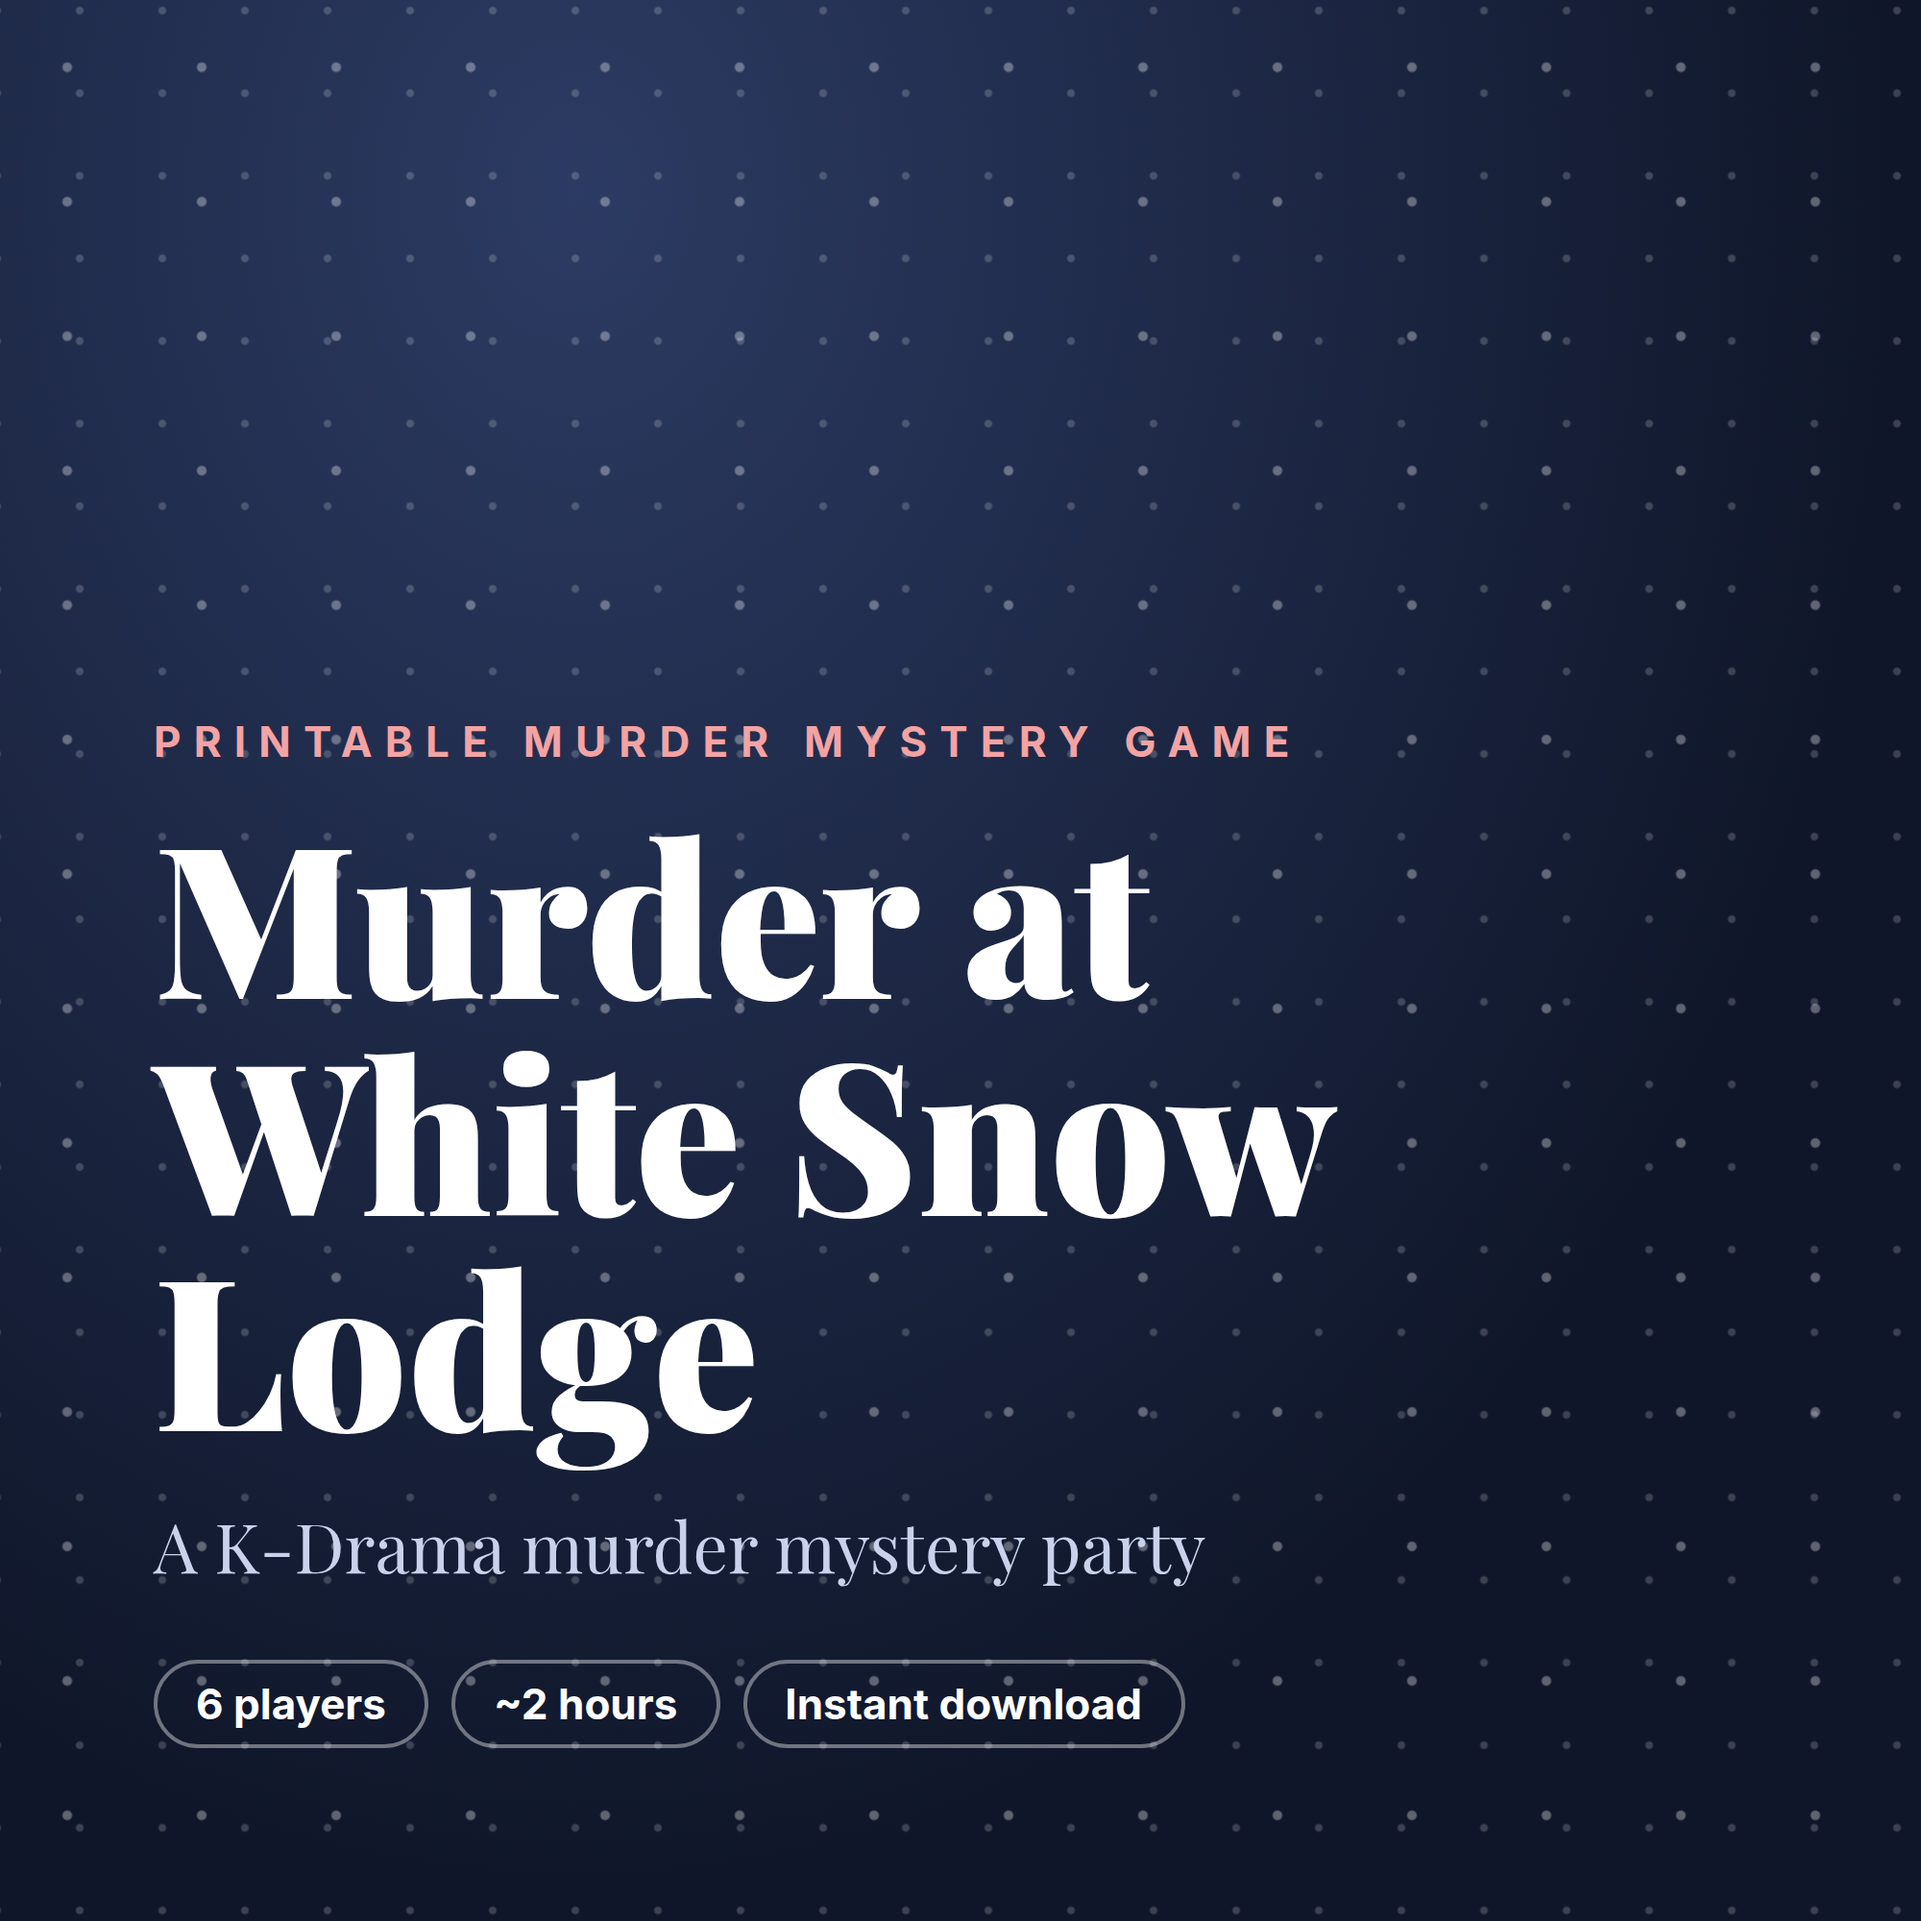
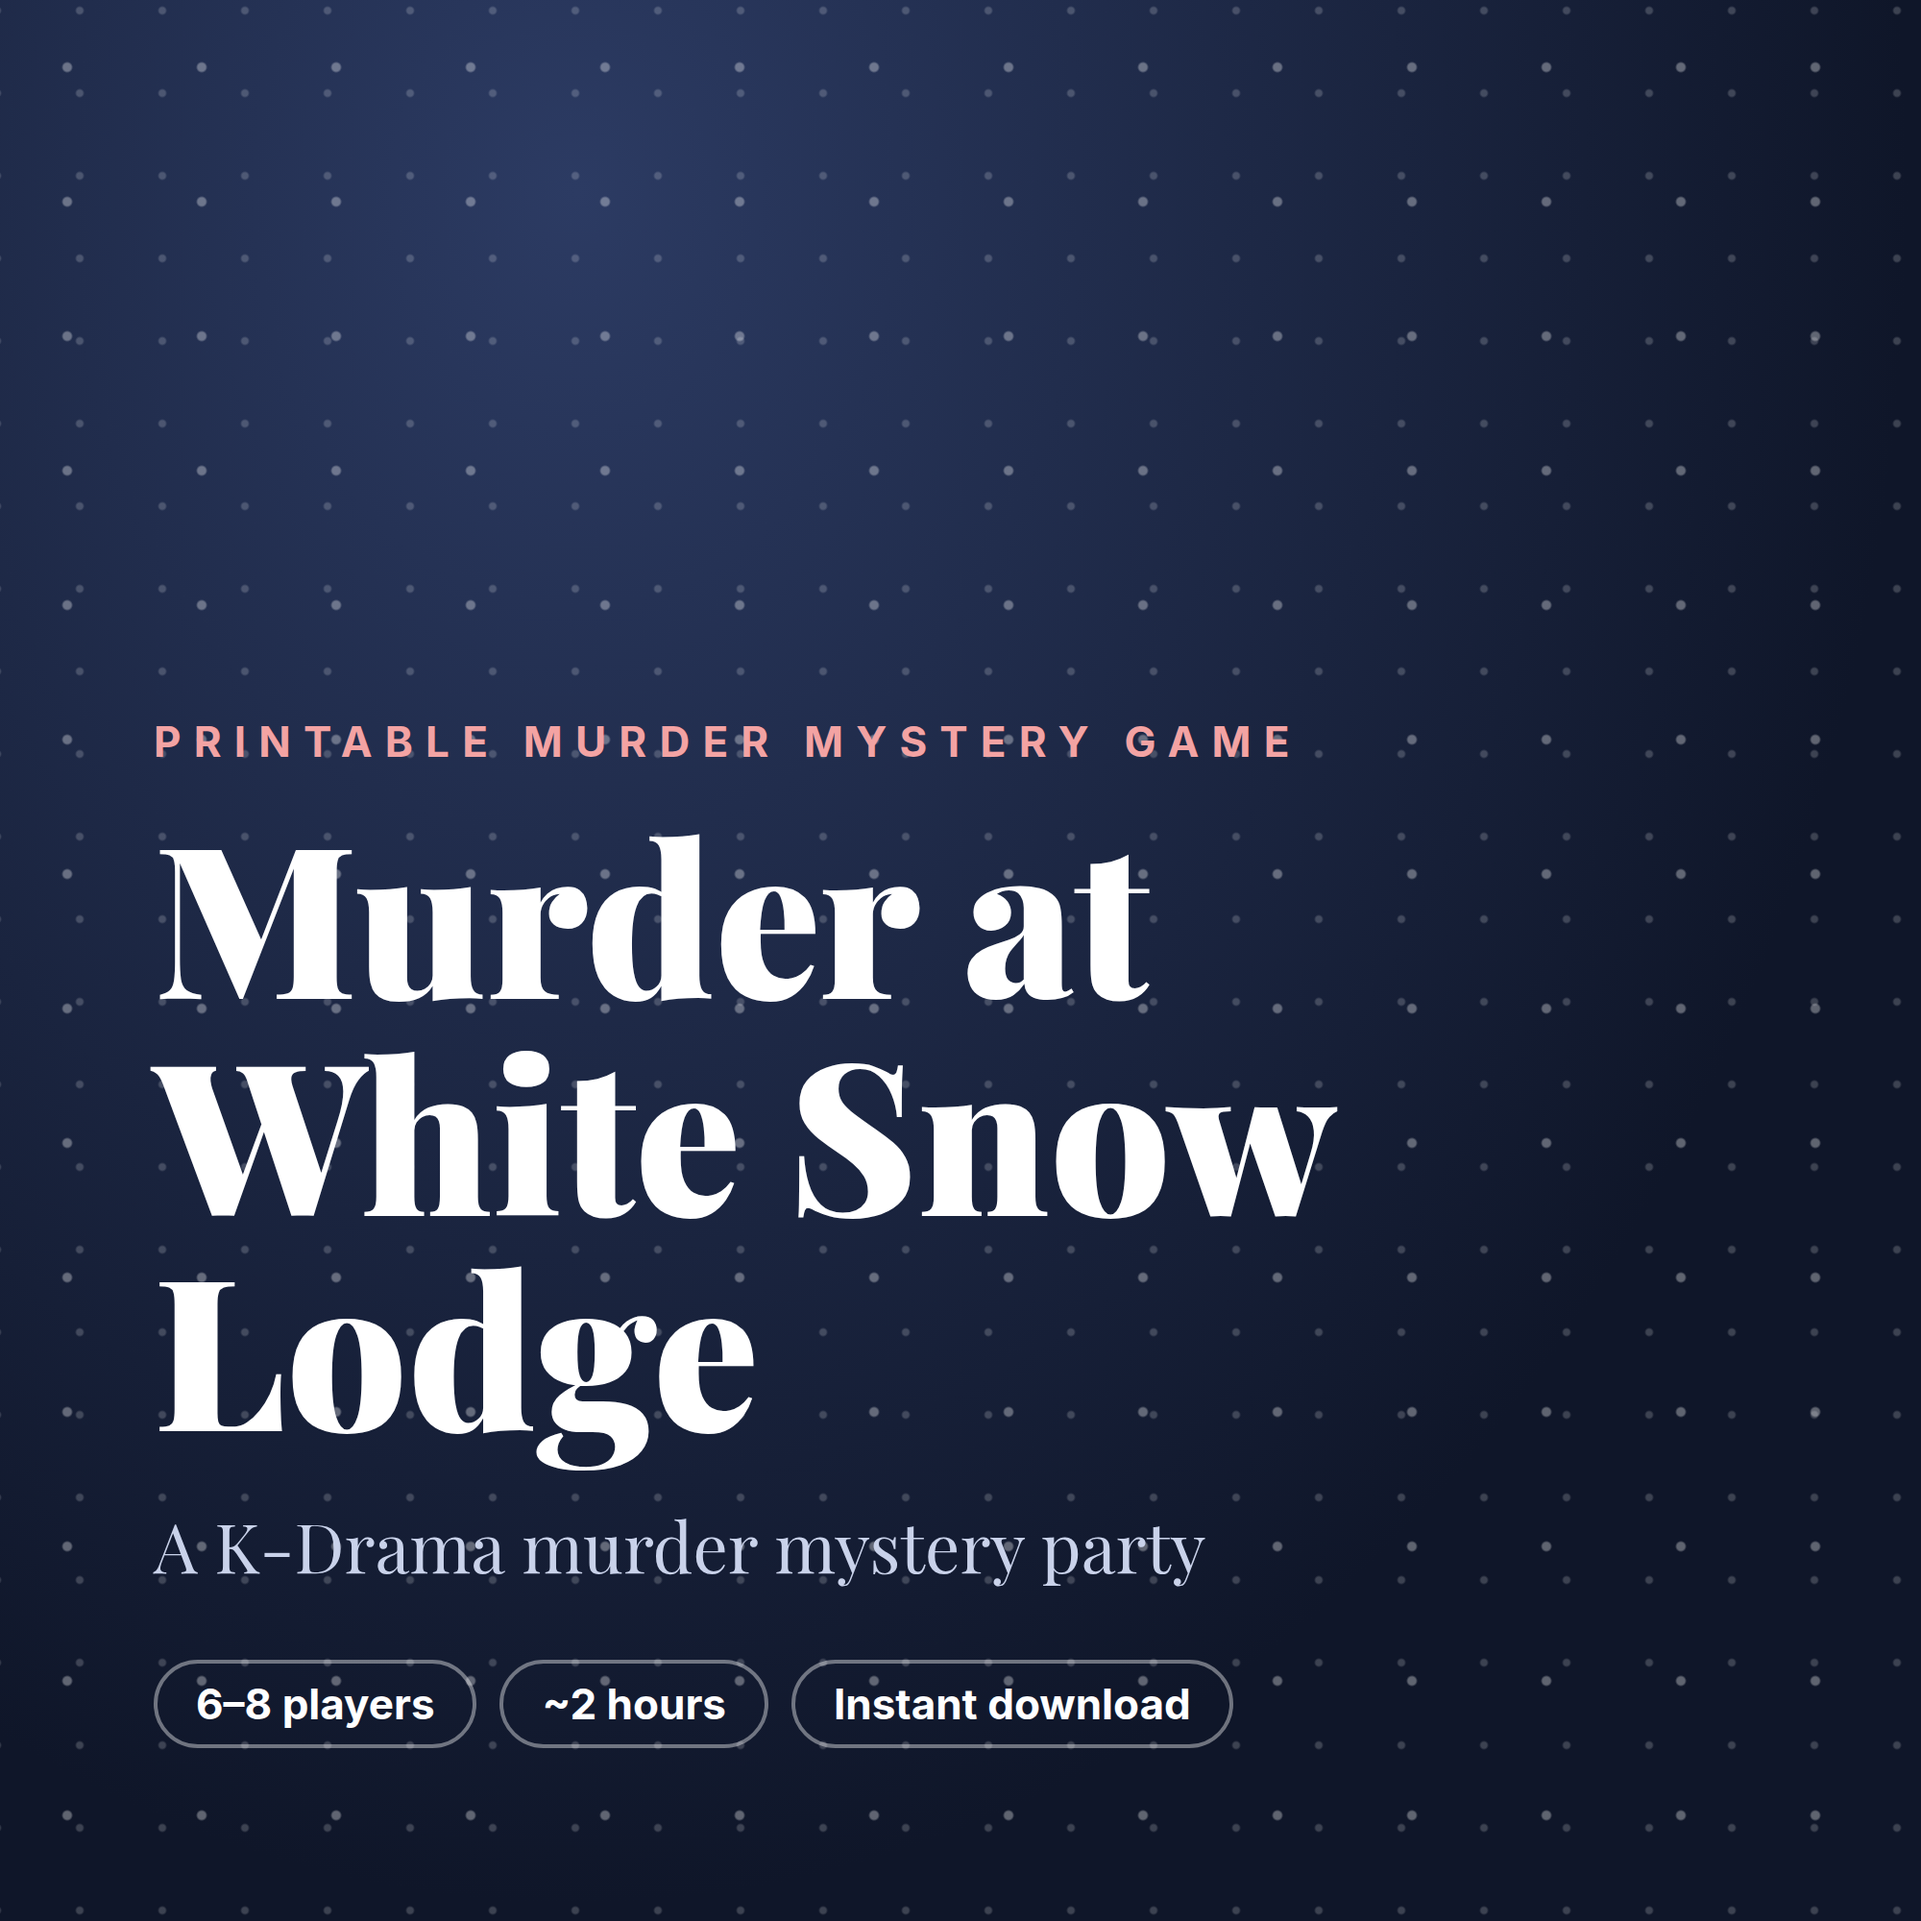
6~8인 확장팩 빌드 추가, 판매 자료 인원 표기 갱신
- build.py: content*_exp.py가 있으면 8인 확장팩 PDF(캐릭터 2명, 추가 정보 쪽지,
  단서 3장, 초대장, 해답 보충)를 함께 빌드
- 판매 이미지·판매글·판매 페이지를 6~8인으로 갱신
- 확장팩 원본(content*_exp.py)도 gitignore로 제외

Claude-Session: https://claude.ai/code/session_01QK6vhwxy4dYd5nQcLkX57T

Changed region(s): [[0.124, 0.868, 0.62, 0.899]]

diff --git a/docs/mystery/index.html b/docs/mystery/index.html
@@ -4,7 +4,7 @@
 <meta charset="utf-8">
 <meta name="viewport" content="width=device-width, initial-scale=1">
 <title>백설장 살인사건 · 추리 파티 게임</title>
-<meta name="description" content="6인용 머더 미스터리 파티 게임 키트. 인쇄해서 바로 하는 송년회·집들이·워크숍 추리게임. 약 2시간.">
+<meta name="description" content="6~8인용 머더 미스터리 파티 게임 키트. 인쇄해서 바로 하는 송년회·집들이·워크숍 추리게임. 약 2시간.">
 <meta property="og:title" content="백설장 살인사건 — 6인용 추리 파티 게임">
 <meta property="og:description" content="눈에 갇힌 산장, 여섯 명의 용의자, 단 한 명의 거짓말쟁이. 인쇄해서 바로 즐기는 머더 미스터리 키트.">
 <meta property="og:image" content="thumb.png">
@@ -50,7 +50,7 @@ footer{padding:40px 0 60px;color:var(--sub);font-size:13px;text-align:center}
   <div class="kicker">MURDER MYSTERY PARTY KIT</div>
   <h1>백설장 살인사건</h1>
   <p class="lead serif">눈에 갇힌 산장, 여섯 명의 용의자.<br>거짓말을 할 수 있는 사람은 단 한 명뿐이다.</p>
-  <div class="meta"><span>6인</span><span>약 2시간</span><span>인쇄해서 바로</span><span>진행자 없이도 OK</span><span>13세 이상</span></div>
+  <div class="meta"><span>6~8인</span><span>약 2시간</span><span>인쇄해서 바로</span><span>진행자 없이도 OK</span><span>13세 이상</span></div>
   <a class="buy" href="BUY_URL">지금 구매하기</a><span class="price"><s>24,900원</s>19,900원</span>
 </div></header>
 
@@ -81,6 +81,7 @@ footer{padding:40px 0 60px;color:var(--sub);font-size:13px;text-align:center}
     <li>캐릭터북 6인: 공개 소개, 비밀, 그날 밤의 진짜 행적, 개인 목표</li>
     <li>단서 카드 20장: 현장 → 수색 → 재조사 3라운드 구성, 자르는 선 포함</li>
     <li>배역 초대장 6장: 모임 전에 보내면 분위기가 달라집니다</li>
+    <li>8인 확장팩: 용의자 2명, 새 단서 3장, 추가 초대장 포함</li>
     <li>해답과 에필로그: 모든 단서가 하나의 결론으로 맞아떨어집니다</li>
   </ul>
 </div></section>
@@ -97,7 +98,7 @@ footer{padding:40px 0 60px;color:var(--sub);font-size:13px;text-align:center}
 <section><div class="wrap">
   <h2>자주 묻는 질문</h2>
   <details><summary>추리게임을 한 번도 안 해봤어요.</summary><p>괜찮습니다. 진행자 가이드에 순서가 전부 적혀 있고, 진행자도 플레이어로 함께할 수 있습니다. 해답은 따로 봉인된 파일이라 스포일러 걱정이 없습니다.</p></details>
-  <details><summary>정확히 6명이어야 하나요?</summary><p>여섯 명 모두 사건의 열쇠를 쥐고 있어서 6인 플레이를 권장합니다.</p></details>
+  <details><summary>몇 명이 할 수 있나요?</summary><p>기본 6인이고, 함께 들어 있는 확장팩으로 7~8인까지 할 수 있습니다.</p></details>
   <details><summary>배역 성별이 정해져 있나요?</summary><p>아니요. 모든 배역은 누구나 맡을 수 있게 쓰였습니다.</p></details>
   <details><summary>구매 후 어떻게 받나요?</summary><p>결제 후 PDF 다운로드 링크를 바로 받으실 수 있습니다. 집 프린터로 A4 인쇄하면 됩니다.</p></details>
   <details><summary>맛보기가 있나요?</summary><p>프롤로그와 캐릭터 한 명을 담은 무료 체험판이 있습니다. <a href="sample.pdf" style="color:var(--acc)">무료 체험판 받기</a></p></details>
@@ -105,7 +106,7 @@ footer{padding:40px 0 60px;color:var(--sub);font-size:13px;text-align:center}
 
 <section><div class="wrap" style="text-align:center">
   <h2>오늘 밤, 누군가는 거짓말을 한다</h2>
-  <p style="color:var(--sub);margin-bottom:24px">6인용 · 약 2시간 · 인쇄해서 바로</p>
+  <p style="color:var(--sub);margin-bottom:24px">6~8인용 · 약 2시간 · 인쇄해서 바로</p>
   <a class="buy" href="BUY_URL">19,900원에 구매하기</a>
 </div></section>
 <footer>© 백설장 살인사건. 개인·모임 내 사용 목적으로만 인쇄할 수 있으며, 재배포와 재판매를 금합니다.</footer>

diff --git a/mystery/build.py b/mystery/build.py
@@ -17,6 +17,10 @@ sys.path.insert(0, str(ROOT))
 
 LANG = sys.argv[1] if len(sys.argv) > 1 else "ko"
 C = importlib.import_module("content" if LANG == "ko" else f"content_{LANG}")
+try:  # 확장팩(content*_exp.py)이 있으면 함께 빌드한다. 불러오면 C.UI에 문구가 추가된다.
+    XC = importlib.import_module(C.__name__ + "_exp")
+except ModuleNotFoundError:
+    XC = None
 U = C.UI
 OUT = ROOT / "out" / LANG
 PDF = ROOT / "pdf" / LANG
@@ -232,7 +236,8 @@ def solution():
 
 
 # ---------- 5. 초대장 ----------
-def invitations():
+def invitations(chars=None):
+    chars = chars or C.CHARACTERS
     cards = [f"""<div class="inv"><div class="snow"></div><div style="position:relative">
 <div class="kicker" style="color:#f3c9c9">INVITATION</div><h2>{e(C.TITLE)}</h2>
 <p style="color:#c9d2ea">{e(U['inv_line'])}</p>
@@ -240,9 +245,10 @@ def invitations():
 <p style="margin-top:3mm;color:#c9d2ea">{e(U['inv_costume'])}{e(ch['costume'])}</p>
 <p style="margin-top:8mm">{e(U['inv_date'])} <span class="blank"></span>　{e(U['inv_place'])} <span class="blank"></span></p>
 <p style="margin-top:3mm;font-size:9pt;color:#aeb8d4">{e(U['inv_tag'])}</p>
-</div></div>""" for ch in C.CHARACTERS]
-    return doc(U["inv_title"], [f'<section class="page" style="padding:0">{"".join(cards[i:i + 2])}</section>'
-                                for i in range(0, len(cards), 2)])
+</div></div>""" for ch in chars]
+    pages = [f'<section class="page" style="padding:0">{"".join(cards[i:i + 2])}</section>'
+             for i in range(0, len(cards), 2)]
+    return pages if chars is not C.CHARACTERS else doc(U["inv_title"], pages)
 
 
 # ---------- 무료 체험판 ----------
@@ -257,8 +263,38 @@ def sample():
         character_book(ch)])
 
 
+# ---------- 8인 확장팩 ----------
+def expansion():
+    X = XC.EXPANSION
+    t = U["exp_title"]
+    places = "".join(f"<tr><td>{e(c['place'])}</td><td>{c['id']}</td></tr>" for c in X["clues"])
+    slips = "".join(
+        f'<div class="box" style="border-style:dashed;margin:0 0 6mm"><div class="kicker">{e(U["exp_slip_label"])}{e(n)}</div>'
+        f'<p style="margin-top:2mm">{e(txt)}</p></div>' for n, txt in X["slips"])
+    sol = "".join(f'<div class="box"><b>{e(a)}</b><p class="muted" style="margin-top:1.5mm">{e(b)}</p></div>'
+                  for a, b in X["solution"])
+    return doc(t, [
+        cover(t, U["exp_cover_note"]),
+        f"""<section class="page"><div class="kicker">EXPANSION</div><h2>{e(U['exp_setup_h'])}</h2>
+<div class="box"><ol>{''.join(f"<li>{i}</li>" for i in U['exp_setup_items'])}</ol></div>
+<h3>{e(U['exp_places_h'])}</h3>
+<table><tr><th>{e(U['place_head'][0])}</th><th>{e(U['place_head'][1])}</th></tr>{places}</table>
+{foot(t + " · 1")}</section>""",
+        *[character_book(ch) for ch in X["characters"]],
+        f"""<section class="page"><div class="kicker">SLIPS</div><h2>{e(U['exp_slips_h'])}</h2>
+<p class="muted">{e(U['exp_slips_note'])}</p>{slips}
+{foot(t + " · 2")}</section>""",
+        f'<section class="page cards">{"".join(card(c) for c in X["clues"])}</section>',
+        *invitations(X["characters"]),
+        cover(U["exp_sol_cover"], U["sol_cover_note"]),
+        f"""<section class="page"><div class="kicker">SOLUTION</div><h2>{e(U['exp_sol_title'])}</h2>{sol}
+{foot(t + " · 3")}</section>"""])
+
+
 BUILDERS = {"host": host_guide, "chars": characters, "cards": clue_cards,
             "solution": solution, "invites": invitations, "sample": sample}
+if XC:
+    BUILDERS["exp"] = expansion
 
 
 def main():

diff --git a/mystery/LISTING_EN.md b/mystery/LISTING_EN.md
@@ -1,18 +1,18 @@
 # 영어판 판매 등록 자료 (Etsy / Gumroad)
 
 ## 올릴 파일
-- **상품:** `Murder_at_White_Snow_Lodge.zip` (PDF 5종, US Letter). 공개 저장소라 원본은 커밋하지 않았고, 사용자님께 직접 전달했습니다.
+- **상품:** `Murder_at_White_Snow_Lodge.zip` (PDF 6종: 기본 5종 + 8인 확장팩, US Letter). 공개 저장소라 원본은 커밋하지 않았고, 사용자님께 직접 전달했습니다.
 - **상품 이미지:** `listing_en/1_cover.png`, `2_inside.png`, `3_suspects.png` (2000×2000). 이 순서대로 올리세요.
 - **무료 체험판:** `00_Free_Sample.pdf`. Gumroad에서 $0 상품으로 올리면 이메일을 모을 수 있습니다.
 
 ## 가격
-- **$14.99 제안.** 등록하기 전에 Etsy에서 "printable murder mystery 6 players"를 검색해 비슷한 상품 가격을 확인하고 맞추세요.
+- **$14.99 제안.** 등록하기 전에 Etsy에서 "printable murder mystery 8 players"를 검색해 비슷한 상품 가격을 확인하고 맞추세요.
   (제가 실제 가격을 확인하지는 못했습니다.)
 - 100만원은 약 $720입니다. 수수료(Etsy 약 10%, Gumroad 약 10%)를 빼면 **약 55개**가 필요합니다.
 
 ## Etsy 제목 (140자 이내)
 ```
-Murder Mystery Party Game Printable, 6 Players, K-Drama Whodunit, Christmas New Year's Eve Game Night, Instant Download PDF Dinner Party Kit
+Murder Mystery Party Game Printable, 6-8 Players, K-Drama Whodunit, Christmas New Year's Eve Game Night, Instant Download PDF Dinner Party Kit
 ```
 
 ## Etsy 태그 (13개, 각 20자 이내)
@@ -33,7 +33,7 @@ The road is buried in snow. The police can't come until tomorrow.
 The killer is sitting at your table.
 
 ━━━━━━━━━━━━━━━━━━
-🎭 PLAYERS: 6 (every role can be played by anyone, any gender)
+🎭 PLAYERS: 6–8 (8-player expansion included; every role can be played by anyone, any gender)
 ⏱ TIME: about 2 hours
 🖨 FORMAT: printable PDF, US Letter — print at home, cut, play tonight
 🔎 HOST: the host can play too — the solution is sealed in a separate file
@@ -44,6 +44,7 @@ WHAT'S INCLUDED
 • 6 Character Booklets — public intro, secret, true timeline, personal goals
 • 20 Clue Cards — 3 rounds: crime scene → search → second look
 • 6 Role Invitations — send before the party
+• 8-Player Expansion — 2 extra suspects, 3 new clues, invitations
 • Sealed Solution + Epilogue — every clue clicks into one answer
 
 WHY PLAYERS LOVE IT
@@ -65,7 +66,7 @@ For personal use within your own party. Please do not share or resell the files.
 ```
 
 ## Gumroad
-- 상품명: `Murder at White Snow Lodge — 6-Player Printable Murder Mystery`
+- 상품명: `Murder at White Snow Lodge — 6–8 Player Printable Murder Mystery`
 - 설명: 위 Etsy 설명을 그대로 쓰세요.
 - 파일: zip 하나. 썸네일: `1_cover.png`.
 - "Pay what you want"는 끄고 고정 가격 $14.99로 하세요.
